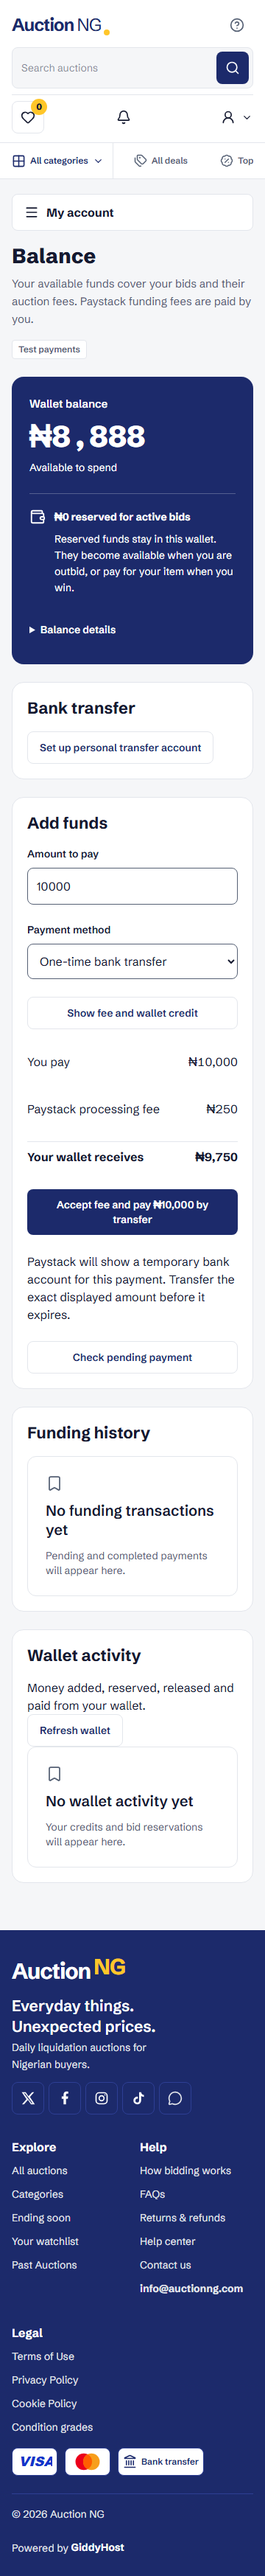
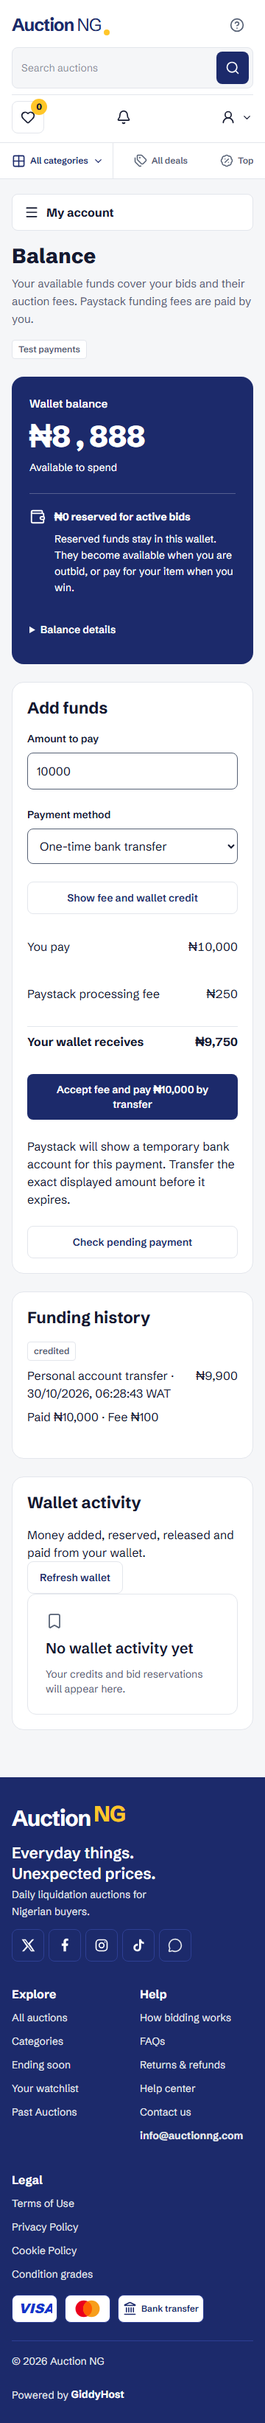
fix(wallet): hide personal transfer account setup

diff --git a/apps/web/components/wallet.tsx b/apps/web/components/wallet.tsx
@@ -3,15 +3,10 @@ import { useCallback, useRef, useState } from 'react';
 import { createPaymentClient } from '@auction-ng/api-client/payments';
 import { ApiError } from '@auction-ng/api-client/auth';
 import { createWalletClient } from '@auction-ng/api-client/wallet';
-import {
-  type VirtualAccountInput,
-  type WalletHistory,
-} from '@auction-ng/shared';
+import type { WalletHistory } from '@auction-ng/shared';
 import { formatNaira } from '@auction-ng/shared/money';
 import { Badge } from '@auction-ng/ui/web/auction';
 import { Button } from '@auction-ng/ui/web/button';
-import { Dialog } from '@auction-ng/ui/web/dialog';
-import { Consent } from '@auction-ng/ui/web/consent';
 import { BuyerPage } from '@auction-ng/ui/web/buyer-page';
 import {
   BuyerPanel,
@@ -22,12 +17,10 @@ import {
 } from '@auction-ng/ui/web/buyer';
 import { EmptyState } from '@auction-ng/ui/web/empty-state';
 import { ErrorState } from '@auction-ng/ui/web/error-state';
-import { Input } from '@auction-ng/ui/web/input';
 import { NairaInput } from '@auction-ng/ui/web/naira-input';
 import { Select } from '@auction-ng/ui/web/select';
 import { PortalWalletSummary } from '@auction-ng/ui/web/buyer-portal';
 import { apiUrl, useBuyer } from '../lib/session';
-import { BankPicker } from './bank-picker';
 import { useWalletRead } from '../lib/wallet-read';
 
 const walletActivityLabels: Record<
@@ -45,7 +38,6 @@ const walletActivityLabels: Record<
 
 export function Wallet() {
   const session = useBuyer();
-  const [bankSetup, setBankSetup] = useState(false);
   const [cursor, setCursor] = useState<string>();
   const [ledgerCursor, setLedgerCursor] = useState<string>();
   const read = useCallback(
@@ -57,12 +49,11 @@ export function Wallet() {
           return wallet.openWallet();
         throw cause;
       });
-      const [history, account, ledgerHistory] = await Promise.all([
+      const [history, ledgerHistory] = await Promise.all([
         payments.getHistory({ limit: 20, cursor }),
-        payments.getAccount(),
         wallet.getHistory({ limit: 20, cursor: ledgerCursor }),
       ]);
-      return { balance, history, account, ledgerHistory };
+      return { balance, history, ledgerHistory };
     },
     [cursor, ledgerCursor],
   );
@@ -249,26 +240,6 @@ export function Wallet() {
               held={data.balance.heldKobo}
               total={data.balance.totalKobo}
             />
-            <BuyerPanel>
-              <h2>Bank transfer</h2>
-              {'accountNumber' in data.account ? (
-                <BuyerStack>
-                  <p>{data.account.bankName}</p>
-                  <PriceAccount account={data.account.accountNumber} />
-                  <p>
-                    Transfer to this account. Your wallet is credited after
-                    Paystack verifies the payment, less the disclosed processing
-                    fee.
-                  </p>
-                </BuyerStack>
-              ) : data.account.status === 'pending' ? (
-                <p>Your bank account is being prepared. Check again shortly.</p>
-              ) : (
-                <Button variant="secondary" onClick={() => setBankSetup(true)}>
-                  Set up personal transfer account
-                </Button>
-              )}
-            </BuyerPanel>
           </>
         )}
         <BuyerPanel>
@@ -392,21 +363,6 @@ export function Wallet() {
               </EmptyState>
             ))}
         </BuyerPanel>
-        <Dialog
-          open={bankSetup}
-          onClose={() => setBankSetup(false)}
-          title="Create your transfer account"
-          presentation="sheet"
-        >
-          {bankSetup && (
-            <BankAccountSetup
-              onDone={() => {
-                setBankSetup(false);
-                reload();
-              }}
-            />
-          )}
-        </Dialog>
         <BuyerPanel>
           <h2>Wallet activity</h2>
           <p>Money added, reserved, released and paid from your wallet.</p>
@@ -464,135 +420,5 @@ export function Wallet() {
         </BuyerPanel>
       </BuyerStack>
     </BuyerPage>
-  );
-}
-function PriceAccount({ account }: { account: string }) {
-  const [copied, setCopied] = useState(false);
-  const [failed, setFailed] = useState(false);
-  return (
-    <>
-      <p className="agn-price">{account}</p>
-      <Button
-        variant="secondary"
-        onClick={() => {
-          void navigator.clipboard
-            .writeText(account)
-            .then(() => {
-              setCopied(true);
-              setFailed(false);
-            })
-            .catch(() => setFailed(true));
-        }}
-      >
-        {copied ? 'Account number copied' : 'Copy account number'}
-      </Button>
-      {failed && (
-        <p role="status">
-          Copy is unavailable. Select the account number above and copy it.
-        </p>
-      )}
-    </>
-  );
-}
-function BankAccountSetup({ onDone }: { onDone: () => void }) {
-  const session = useBuyer();
-  const [bankReady, setBankReady] = useState(false);
-  const [busy, setBusy] = useState(false);
-  const [message, setMessage] = useState('');
-  return (
-    <form
-      onSubmit={(event) => {
-        event.preventDefault();
-        if (!session.tokens || busy) return;
-        const form = event.currentTarget;
-        const fields = new FormData(form);
-        setBusy(true);
-        const input: VirtualAccountInput = {
-          firstName: String(fields.get('firstName')),
-          lastName: String(fields.get('lastName')),
-          phone: String(fields.get('phone')),
-          bvn: String(fields.get('bvn')),
-          bankCode: String(fields.get('bankCode')),
-          accountNumber: String(fields.get('accountNumber')),
-          consent: true,
-          feePolicy: 'paystack-dva-v1',
-        };
-        const credentials = {
-          accessToken: session.tokens.accessToken,
-          deviceId: session.deviceId,
-        };
-        // Clear the visible BVN immediately; never persist identity details in browser storage.
-        const bvn = form.elements.namedItem('bvn');
-        if (bvn instanceof HTMLInputElement) bvn.value = '';
-        void createPaymentClient(apiUrl, credentials)
-          .assignAccount(input)
-          .then(() => {
-            form.reset();
-            onDone();
-            setMessage('Account request received. Check its status above.');
-          })
-          .catch(() =>
-            setMessage(
-              'The account could not be created. Check your details or try again when bank verification is available.',
-            ),
-          )
-          .finally(() => setBusy(false));
-      }}
-    >
-      <BuyerStack>
-        <p>
-          Create a personal transfer account using your bank details. Your BVN
-          is sent only for bank verification and is not displayed in your
-          account.
-        </p>
-        <Input
-          name="firstName"
-          label="First name"
-          required
-          autoComplete="given-name"
-        />
-        <Input
-          name="lastName"
-          label="Last name"
-          required
-          autoComplete="family-name"
-        />
-        <Input
-          name="phone"
-          label="Nigerian phone number"
-          placeholder="0803 123 4567"
-          required
-          type="tel"
-          autoComplete="tel"
-        />
-        <Input
-          name="bvn"
-          type="password"
-          label="BVN"
-          required
-          inputMode="numeric"
-          pattern="[0-9]{11}"
-          maxLength={11}
-          autoComplete="off"
-        />
-        <BankPicker disabled={busy} onAvailable={setBankReady} />
-        <Input
-          name="accountNumber"
-          label="Your existing bank account number"
-          required
-          inputMode="numeric"
-          pattern="[0-9]{10}"
-          maxLength={10}
-        />
-        <Consent required disabled={busy}>
-          I consent to bank verification and understand that the processing fee
-          is deducted from each transfer before wallet credit.
-        </Consent>
-        <Button type="submit" busy={busy} disabled={!bankReady}>
-          Request personal transfer account
-        </Button>
-        {message && <p role="status">{message}</p>}
-      </BuyerStack>
-    </form>
   );
 }

diff --git a/docs/decisions.md b/docs/decisions.md
@@ -1,5 +1,7 @@
 # Decisions log
 
+Wallet funding simplification (2026-10-30): owner approves removing personal/reusable transfer-account display and setup from the buyer Balance page for now. Keep One-time bank transfer and Nigerian/international card checkout. Stop fetching personal-account status and remove the BVN/bank-details form from this screen. Preserve existing account records, historical DVA receipts, webhook verification, fee rules and ledger behavior; no database deletion or API removal. This supersedes the optional personal-account UI in the earlier wallet design.
+
 Wallet transfer checkout (2026-10-30): owner approves one-time Paystack transfer wallet funding, distinct from optional reusable DVA funding. Disclose the standard local-channel fee and net credit before consent; persist checkout_transfer intents with a separate policy/reference, immutable amounts and idempotent verified credit. Extend the existing funding constraint via a new migration without removing earlier safeguards. Reconcile transfer references and verify owner/email/channel/amount/fee before any credit. Wallet refresh retains owner-scoped data/forms, uses GET balance reads with first-wallet creation only on 404, reconciles every fifteen seconds while visible/online and updates the sidebar without a refresh loop. Show large check/cross status and indigo return action. Accept bounded alphanumeric Paystack bank codes after a real successful response exposed the old numeric-only rejection. MONEY/BID CHANGE - needs human review; actual hosted provider acceptance remains pending.
 
 Payment input/return correction (2026-10-30): owner requires digits only in wallet Amount to pay and a browser return after hosted checkout. Reject mixed-character edits instead of stripping punctuation, preserving safe integer-kobo parsing and existing bid inputs. Send a trusted server-configured PAYMENT_RETURN_ORIGIN callback for wallet and fixed-price checkout. The protected return page verifies the owned UUID through existing confirmation APIs, ignores URL success claims and shows server-confirmed pending/failure/success. Webhooks, immutable intents and idempotent ledger credits remain authoritative; no fee or settlement-rule changes. Existing paid checkouts must be checked, never paid again. MONEY/BID CHANGE ? needs human review.

diff --git a/docs/design/payment-return/README.md b/docs/design/payment-return/README.md
@@ -1,5 +1,7 @@
 # Payment return and numeric input review — 2026-10-30
 
+Funding simplification follow-up: remove the reusable/personal bank-account panel, BVN/setup form and account-status fetch from Balance. Keep one-time transfer, Nigerian/international cards and historical personal-account receipts. The updated targeted browser check asserts no personal-account UI or API reads, all three funding choices, retained historical receipts during delayed refresh, and the existing verified checkout/refresh/status behavior at 360/768/1280. Web lint/types and production build pass. Financial APIs/data were not changed; the earlier 47-test financial result below is retained historical evidence, not a new full-suite run for this UI-only correction.
+
 Wallet transfer/status follow-up: one-time hosted transfer quote/acceptance/navigation, large check/cross status headings, filled indigo return action, bank codes containing letters and a fifteen-second silent wallet refresh. Updated browser checks retain input and loaded panels through delayed requests, retain the page with a stale-data notice on failure, recover without flashing, and observe a timer-driven balance update without manual refresh. All three widths passed. Captures and review.json below reflect this update, including failed-360/768/1280.png.
 
 The expanded focused suite has 47 passing tests, including five concurrent transfer initialization retries, ten webhook duplicates plus confirmation, verified mismatch rejection, typed HTTP endpoints and reconciliation. The real Paystack TEST bank adapter loaded fifty records after fixing alphanumeric-code validation. An additive constraint migration preserves existing intent immutability and net-amount guards. [Current contracts](../../specs/wallet-transfer-checkout.md). Actual hosted transfer payment acceptance remains pending; no live payments were made.

diff --git a/docs/TASKS.md b/docs/TASKS.md
@@ -93,6 +93,8 @@ Implemented on 2026-10-24 in [PR #5](https://github.com/bhoyee/auction-ng/pull/5
 
 ### [~] T06 — Paystack virtual accounts and top-up (MONEY/BID)
 
+2026-10-30 wallet simplification: personal-account panel/setup hidden, account-status reads removed, one-time transfer and card options retained. Existing account records, receipts and financial APIs remain intact. Targeted UI validation and captures: [wallet review](design/payment-return/README.md). Broader T06/T13 remain open.
+
 2026-10-30 wallet follow-up: one-time transfer funding with separate accepted fees/intents, safe webhook/confirmation credit and reconciliation; silent wallet/side balance refresh, stronger status feedback and alphanumeric bank-list compatibility. [Contracts and targeted validation](specs/wallet-transfer-checkout.md). T06 remains open for actual provider acceptance and human review. MONEY/BID CHANGE - needs human review.
 
 2026-10-30 checkout correction: digits-only wallet amount, server-owned browser callback and authenticated verified return status for wallet and fixed-price payments. [Contracts and remaining acceptance](specs/payment-return.md). T06 stays in progress pending actual provider acceptance. MONEY/BID CHANGE ? needs human review.

diff --git a/docs/DESIGN.md b/docs/DESIGN.md
@@ -200,3 +200,6 @@ Payment return/input correction (2026-10-30): wallet Amount to pay uses numeric 
 
 
 Wallet funding/status amendment (2026-10-30): distinguish One-time bank transfer checkout from personal transfer account setup. Show fee and net credit before the explicit pay action. Background wallet refresh must retain the loaded screen, input, quote and scroll; report failed refresh as last-confirmed values rather than blanking the page. Payment confirmed/failed uses a bold 32px heading with a large Lucide check/cross; pending uses a clock. Back to balance is an indigo filled action with visible hover/focus and reduced-motion support.
+
+
+Wallet simplification (2026-10-30): Balance shows the wallet summary, Add funds with one-time transfer and card options, funding history and wallet activity. Omit personal transfer-account display/setup and BVN/bank-detail collection. Keep earlier transfer receipts visible, retain fee disclosure and silent refresh, and preserve the responsive shared-component layout.

diff --git a/docs/specs/wallet-transfer-checkout.md b/docs/specs/wallet-transfer-checkout.md
@@ -1,5 +1,7 @@
 # One-time transfer funding and wallet refresh
 
+2026-10-30 simplification amendment: the owner removes personal-account display/setup from Balance for now. Only one-time transfer and card funding are offered there; the BVN/bank form and personal-account status read are removed. Existing records, receipts, fee policies, APIs and webhook crediting remain intact. References to an optional personal-account screen below describe the earlier implementation.
+
 Owner-approved 2026-10-30. **MONEY/BID CHANGE — needs human review.**
 
 ## Funding flow
